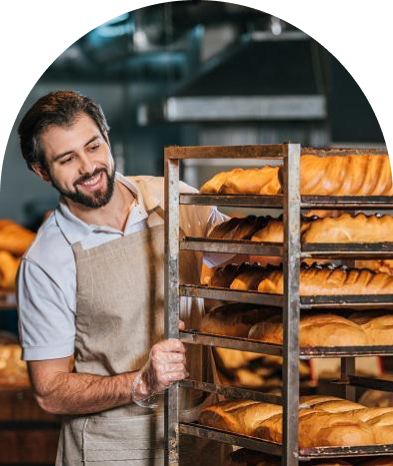
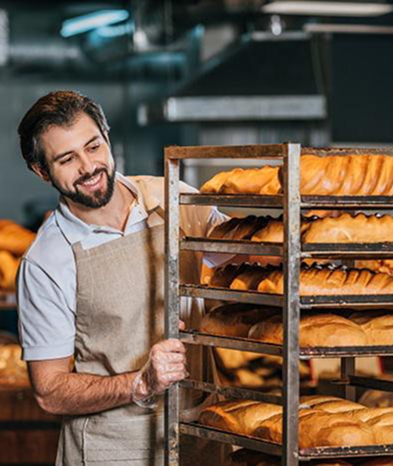
Add files via upload

diff --git a/index.html b/index.html
@@ -107,7 +107,7 @@
         <div class="container">
           <h2 class="formats-title section-title">Формати</h2>
           <ul class="formats-list">
-            <li>
+            <li class="formats-item">
               <article class="format-card">
                 <h3 class="format-title" lang="en">Walrus</h3>
                 <div class="format-text">
@@ -121,7 +121,7 @@
                 </div>
               </article>
             </li>
-            <li>
+            <li class="formats-item">
               <article class="format-card">
                 <h3 class="format-title" lang="en">Horseshoe</h3>
                 <div class="format-text">
@@ -132,7 +132,7 @@
                 </div>
               </article>
             </li>
-            <li>
+            <li class="formats-item">
               <article class="format-card">
                 <h3 class="format-title" lang="en">Handlebar</h3>
                 <div class="format-text">

diff --git a/css/styles.css b/css/styles.css
@@ -148,6 +148,10 @@ ul {
 /* Hero section */
 .hero-section {
   padding: 272px 0;
+  background-image: url('../images/couple-in-bakery.jpg');
+  background-repeat: no-repeat;
+  background-position: center top;
+  background-size: cover;
 }
 
 .hero-title {
@@ -237,10 +241,16 @@ ul {
 /* Formats section */
 .formats-list {
   display: flex;
+  flex-wrap: wrap;
+  gap: 20px;
 }
 
+.formats-item {
+  flex-basis: calc((100% - 40px) / 3);
+}
 
 .format-card {
+  padding: 24px;
   border: 1px solid lightgray;
   /*remove*/
   border-radius: 16px;
